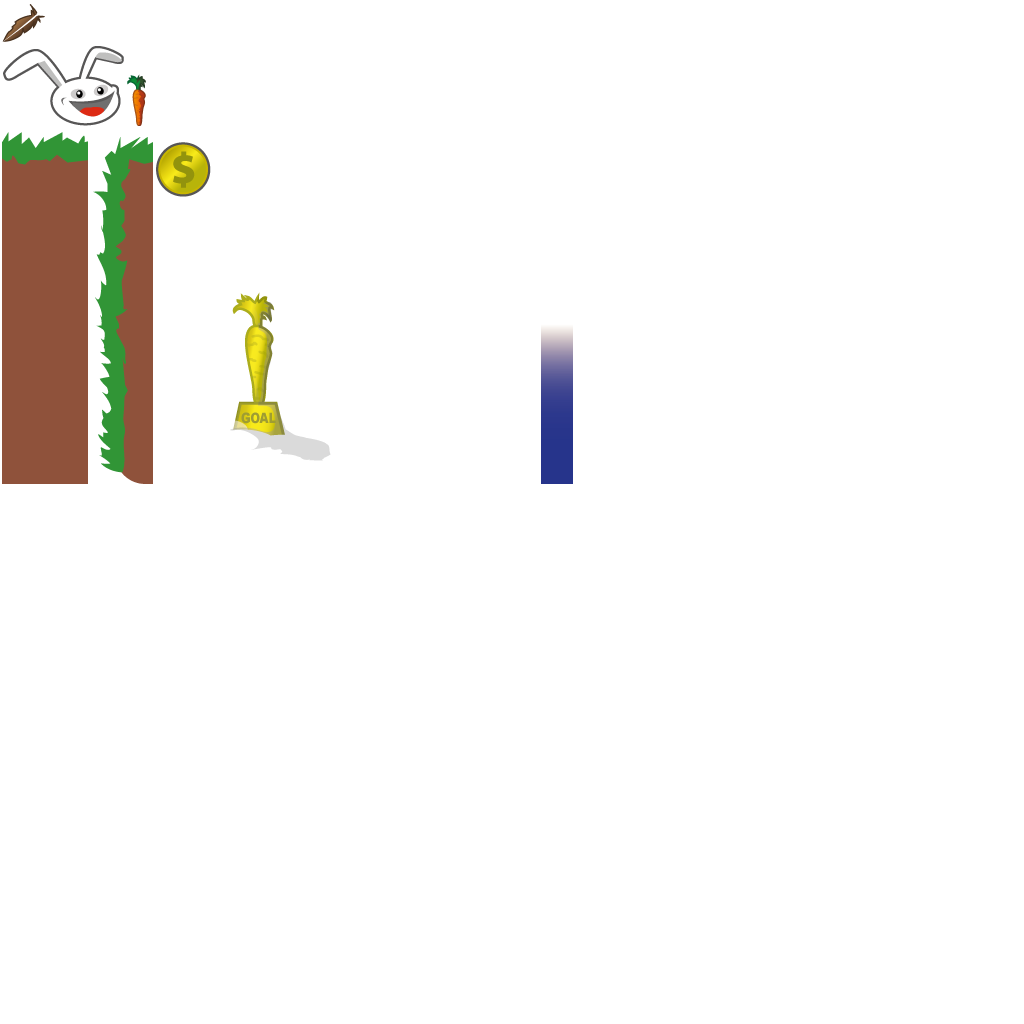
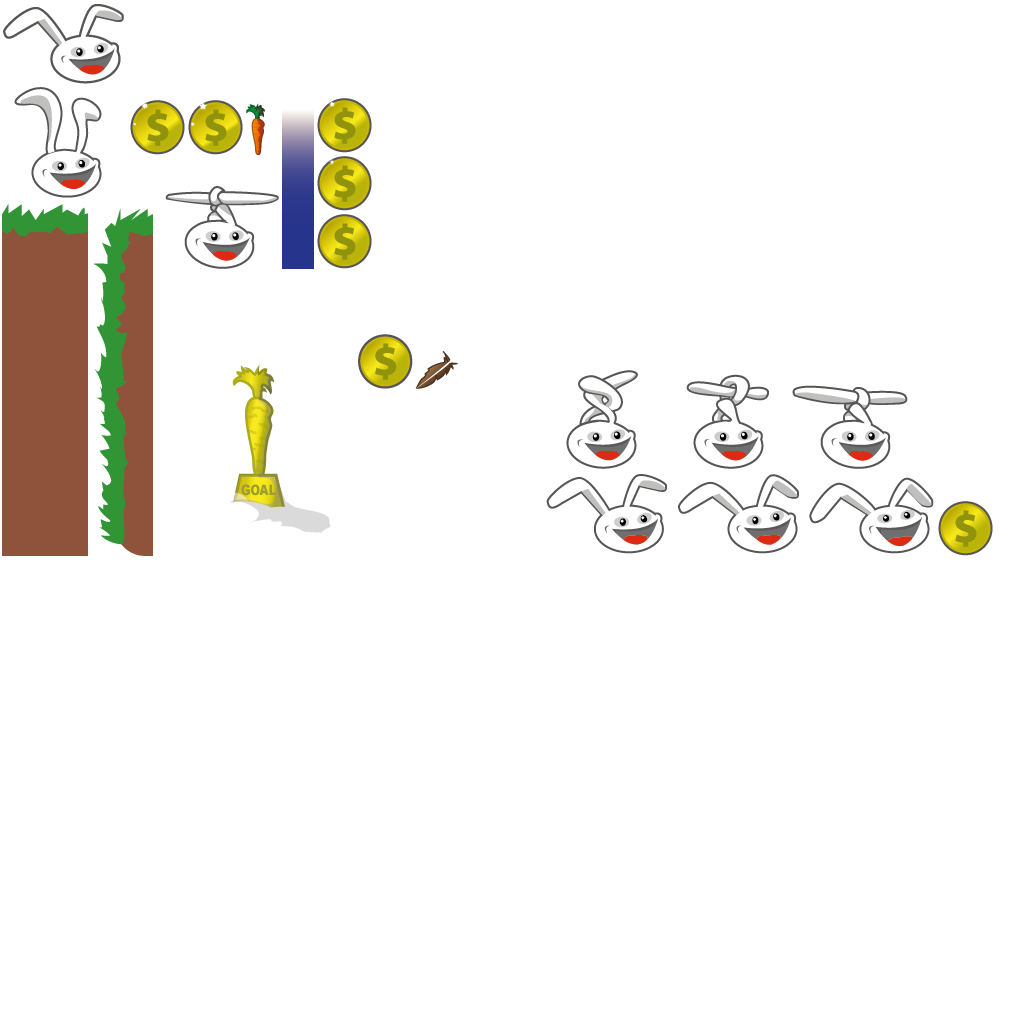
BunnyHead has been edited to add animations now, and all animation images are in. Also moved the AbstractGameObject code from AbstractGameScreen (not sure why I put it in there the first time...)

diff --git a/core/src/com/packtpub/libgdx/canyonbunny/game/objects/BunnyHead.java b/core/src/com/packtpub/libgdx/canyonbunny/game/objects/BunnyHead.java
@@ -7,10 +7,13 @@ import com.badlogic.gdx.graphics.g2d.SpriteBatch;
 import com.badlogic.gdx.graphics.g2d.TextureRegion;
 import com.packtpub.libgdx.canyonbunny.game.Assets;
 import com.packtpub.libgdx.canyonbunny.util.Constants;
+import com.packtpub.libgdx.canyonbunny.util.GamePreferences;
 import com.badlogic.gdx.Gdx;
 import com.badlogic.gdx.graphics.g2d.ParticleEffect;
 import com.badlogic.gdx.math.MathUtils;
 import com.packtpub.libgdx.canyonbunny.util.AudioManager;
+import com.packtpub.libgdx.canyonbunny.util.CharacterSkin;
+import com.badlogic.gdx.graphics.g2d.Animation;
 
 /**
  * The player object. This has the most interactions across
@@ -20,6 +23,11 @@ import com.packtpub.libgdx.canyonbunny.util.AudioManager;
 public class BunnyHead extends AbstractGameObject {
 	
 	public ParticleEffect dustParticles = new ParticleEffect();
+	// Animation states
+	private Animation animNormal;
+	private Animation animCopterTransform;
+	private Animation animCopterTransformBack;
+	private Animation animCopterRotate;
 	
 	//Chapter 6
 	public static final String TAG = BunnyHead.class.getName();
@@ -46,6 +54,13 @@ public class BunnyHead extends AbstractGameObject {
 		
 		//chapter 6
 		dimension.set(1, 1);
+		
+		animNormal = Assets.instance.bunny.animNormal;
+		animCopterTransform = Assets.instance.bunny.animCopterTransform;
+		animCopterTransformBack = Assets.instance.bunny.animCopterTransformBack;
+		animCopterRotate = Assets.instance.bunny.animCopterRotate;
+		setAnimation(animNormal);
+		
 		regHead = Assets.instance.bunny.head;
 		// Center image on game object
 		origin.set(dimension.x / 2, dimension.y / 2);
@@ -124,12 +139,37 @@ public class BunnyHead extends AbstractGameObject {
 	timeLeftFeatherPowerup -= deltaTime;
 	
 	    if (timeLeftFeatherPowerup < 0) {
+	    	if (animation == animCopterTransformBack) {
+	    		// Restart "Transform" animation if another feather power-up
+	    		// was picked up during "TransformBack" animation. Otherwise,
+	    		// power-up is still active.
+	    		setAnimation(animCopterTransform);
+	    	}
 	         // disable power-up
 		     timeLeftFeatherPowerup = 0;
 		     setFeatherPowerup(false);
+		     setAnimation(animCopterTransformBack);
 	         }
 	  }	
 	dustParticles.update(deltaTime);
+	
+	// Change animation state according to feather power-up
+	if (hasFeatherPowerup) {
+		if (animation == animNormal) {
+			setAnimation(animCopterTransform);
+		} else if (animation == animCopterTransform) {
+			if (animation.isAnimationFinished(stateTime))
+				setAnimation(animCopterRotate);
+		}
+	} else {
+		if (animation == animCopterRotate) {
+			if (animation.isAnimationFinished(stateTime))
+				setAnimation(animCopterTransformBack);
+		} else if (animation == animCopterTransformBack) {
+			if (animation.isAnimationFinished(stateTime))
+				setAnimation(animNormal);
+		}
+	}
    }
 	
 	
@@ -177,20 +217,38 @@ public class BunnyHead extends AbstractGameObject {
 	@Override
 	public void render (SpriteBatch batch) {
 	TextureRegion reg = null;
-	// Set special color when game object has a feather power-up
-	if (hasFeatherPowerup) {
-	batch.setColor(1.0f, 0.8f, 0.0f, 1.0f);
+	
+	// Draw Particles
+	dustParticles.draw(batch);
+	
+	// Apply Skin Color
+	batch.setColor(
+			CharacterSkin.values()[GamePreferences.instance.charSkin]
+					.getColor());
+	
+	// correcting values to the width and height for rendering
+	float dimCorrectionX = 0;
+	float dimCorrectionY = 0;
+	if (animation != animNormal) {
+		dimCorrectionX = 0.05f;
+		dimCorrectionY = 0.2f;
 	}
+	
+	// Set special color when game object has a feather power-up
+	//if (hasFeatherPowerup) {
+	//batch.setColor(1.0f, 0.8f, 0.0f, 1.0f);
+	//}
+	
 	// Draw image
-	reg = regHead;
+	//reg = regHead;
+	reg = animation.getKeyFrame(stateTime, true);
+	
 	batch.draw(reg.getTexture(), position.x, position.y, origin.x,
-	origin.y, dimension.x, dimension.y, scale.x, scale.y, rotation,
-	reg.getRegionX(), reg.getRegionY(), reg.getRegionWidth(),
+	origin.y, dimension.x + dimCorrectionX, dimension.y + dimCorrectionY, 
+	scale.x, scale.y, rotation, reg.getRegionX(), reg.getRegionY(), reg.getRegionWidth(),
 	reg.getRegionHeight(), viewDirection == VIEW_DIRECTION.LEFT,
 	false);
 	// Reset color to white
 	batch.setColor(1, 1, 1, 1);
-	// Draw Particles
-	dustParticles.draw(batch);
 	}
 }

diff --git a/core/src/com/packtpub/libgdx/canyonbunny/game/objects/AbstractGameObject.java b/core/src/com/packtpub/libgdx/canyonbunny/game/objects/AbstractGameObject.java
@@ -1,10 +1,12 @@
 package com.packtpub.libgdx.canyonbunny.game.objects;
 
+import com.badlogic.gdx.graphics.g2d.Animation;
 import com.badlogic.gdx.graphics.g2d.SpriteBatch;
 import com.badlogic.gdx.math.Vector2;
 import com.badlogic.gdx.math.Rectangle;
 import com.badlogic.gdx.math.MathUtils;
 import com.badlogic.gdx.physics.box2d.Body;
+import com.badlogic.gdx.graphics.g2d.Animation;
 
 public abstract class AbstractGameObject {
 
@@ -22,6 +24,10 @@ public abstract class AbstractGameObject {
 	public Rectangle bounds;
 	//chapter 11
 	public Body body;
+	// state time of the animation
+	public float stateTime;
+	// current set animation
+	public Animation animation;
 	
 	//abstract constructor
 	public AbstractGameObject () {
@@ -38,10 +44,21 @@ public abstract class AbstractGameObject {
 		bounds = new Rectangle();
 	}
 	
+	/**
+	 * Change the current animation and set the state time
+	 * to 0.
+	 * @param animation the current animation
+	 */
+	public void setAnimation (Animation animation) {
+		this.animation = animation;
+		stateTime = 0;
+	}
+	
 	/*
 	 * update method for the abstract game object class
 	 */
 	public void update (float deltaTime) {
+		stateTime += deltaTime;
 		//chapter 11 adds if statement
 		if (body == null) {
 		//chapter 6

diff --git a/core/src/com/packtpub/libgdx/canyonbunny/screens/AbstractGameScreen.java b/core/src/com/packtpub/libgdx/canyonbunny/screens/AbstractGameScreen.java
@@ -9,39 +9,15 @@ import com.badlogic.gdx.Game;
 import com.badlogic.gdx.Screen;
 import com.badlogic.gdx.assets.AssetManager;
 import com.packtpub.libgdx.canyonbunny.game.Assets;
-import com.badlogic.gdx.graphics.g2d.Animation;
 
 /*
  * abstract class to create methods for the game screen to use 
  */
 public abstract class AbstractGameScreen implements Screen {
 	protected Game game;
-	// state time of the animation
-	public float stateTime;
-	// current set animation
-	public Animation animation;
 
 	public AbstractGameScreen(Game game) {
 		this.game = game;
-	}
-	
-	/**
-	 * Change the current animation and set the state time
-	 * to 0.
-	 * @param animation the current animation
-	 */
-	public void setAnimation (Animation animation) {
-		this.animation = animation;
-		stateTime = 0;
-	}
-	
-	/**
-	 * Increases the state time, which allows the animation to
-	 * run.
-	 * @param deltaTime
-	 */
-	public void update (float deltaTime) {
-		stateTime += deltaTime;
 	}
 
 	public abstract void render(float deltaTime);
